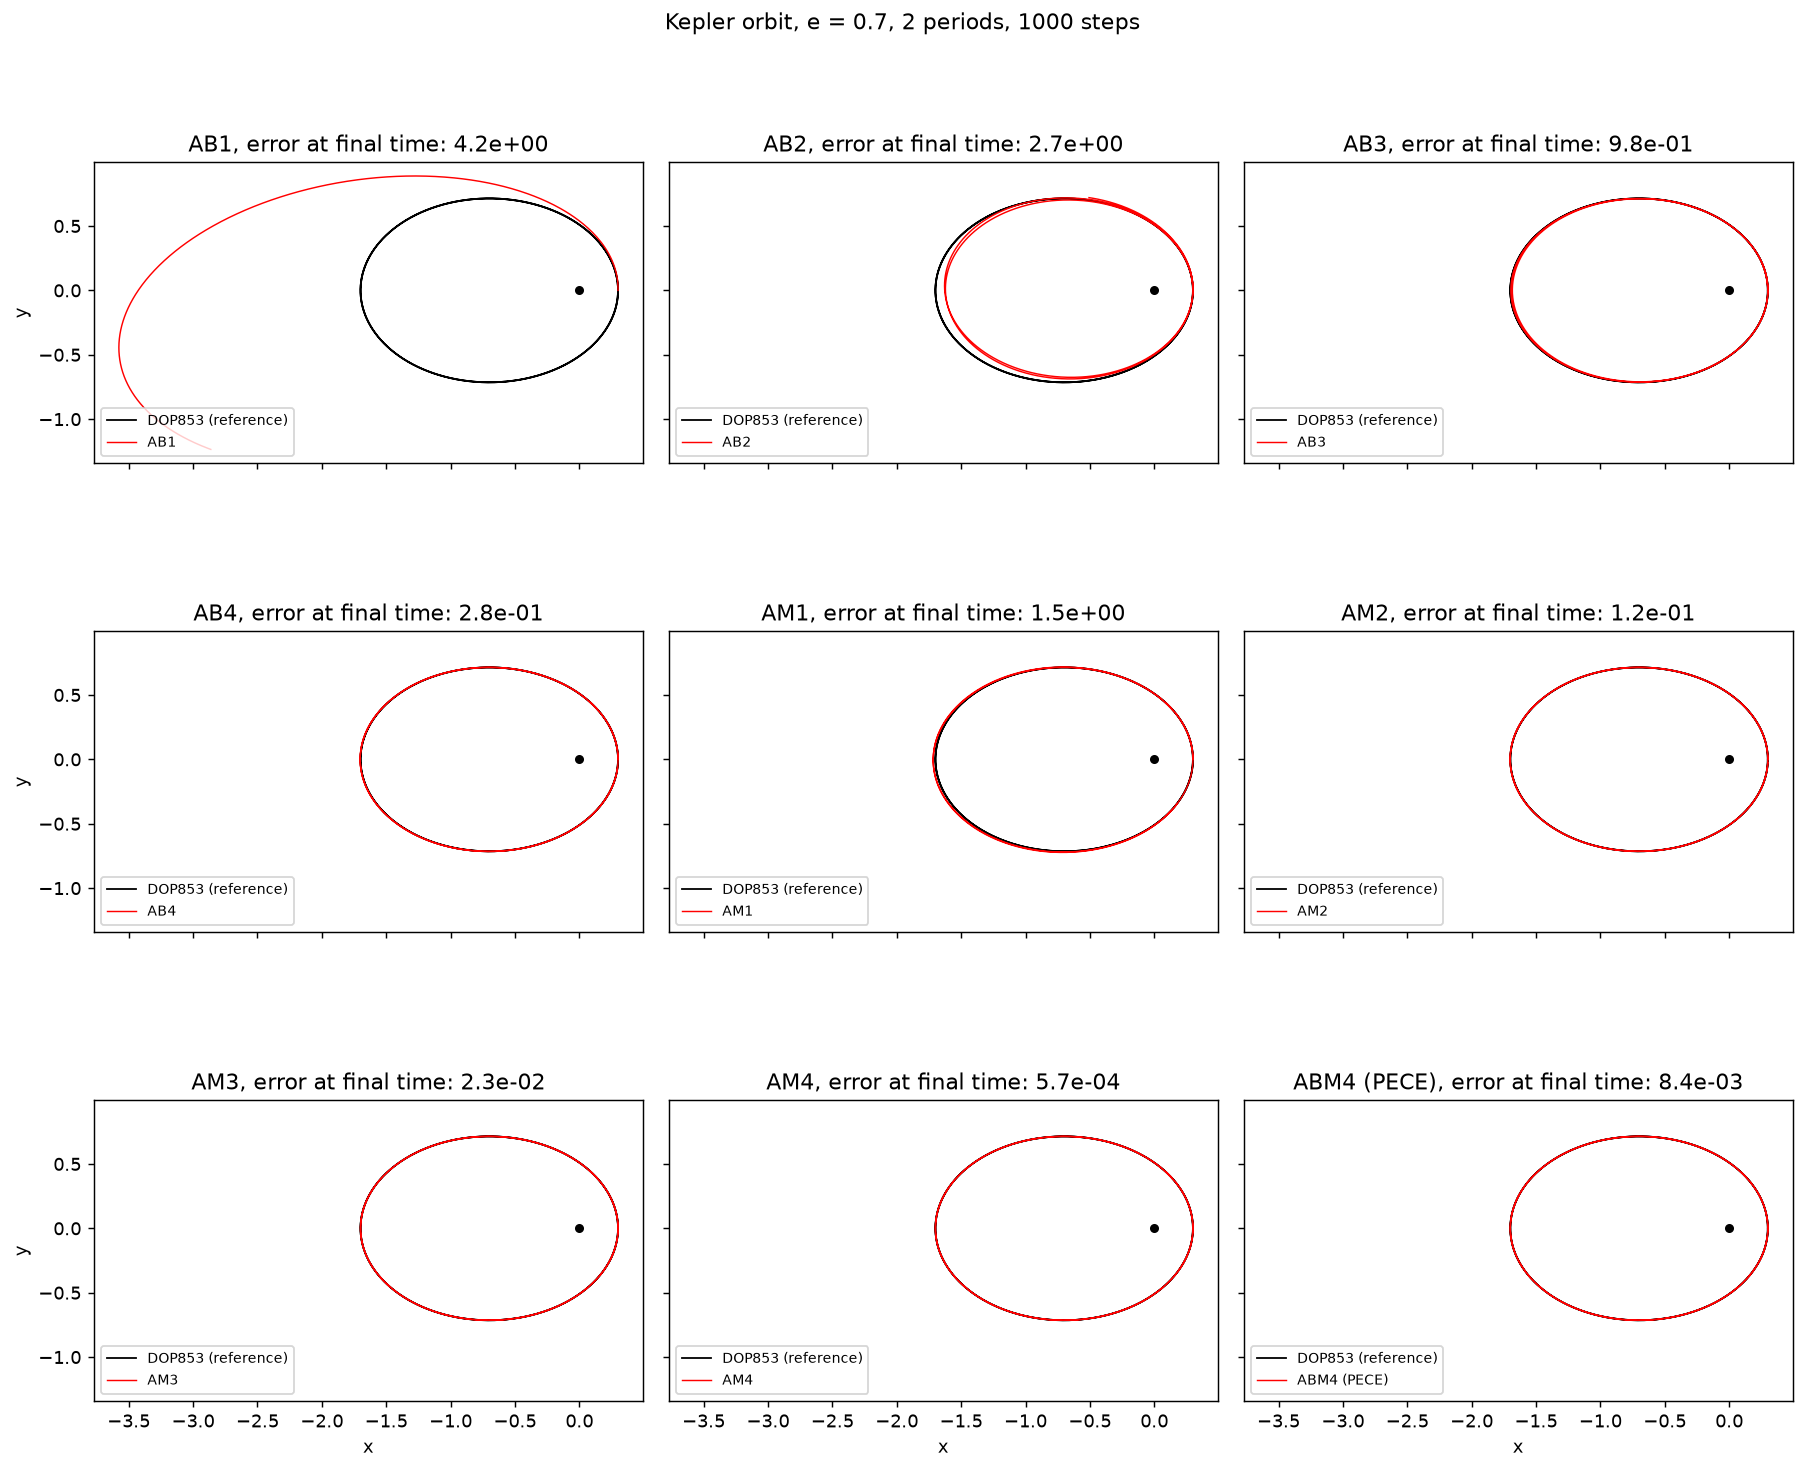
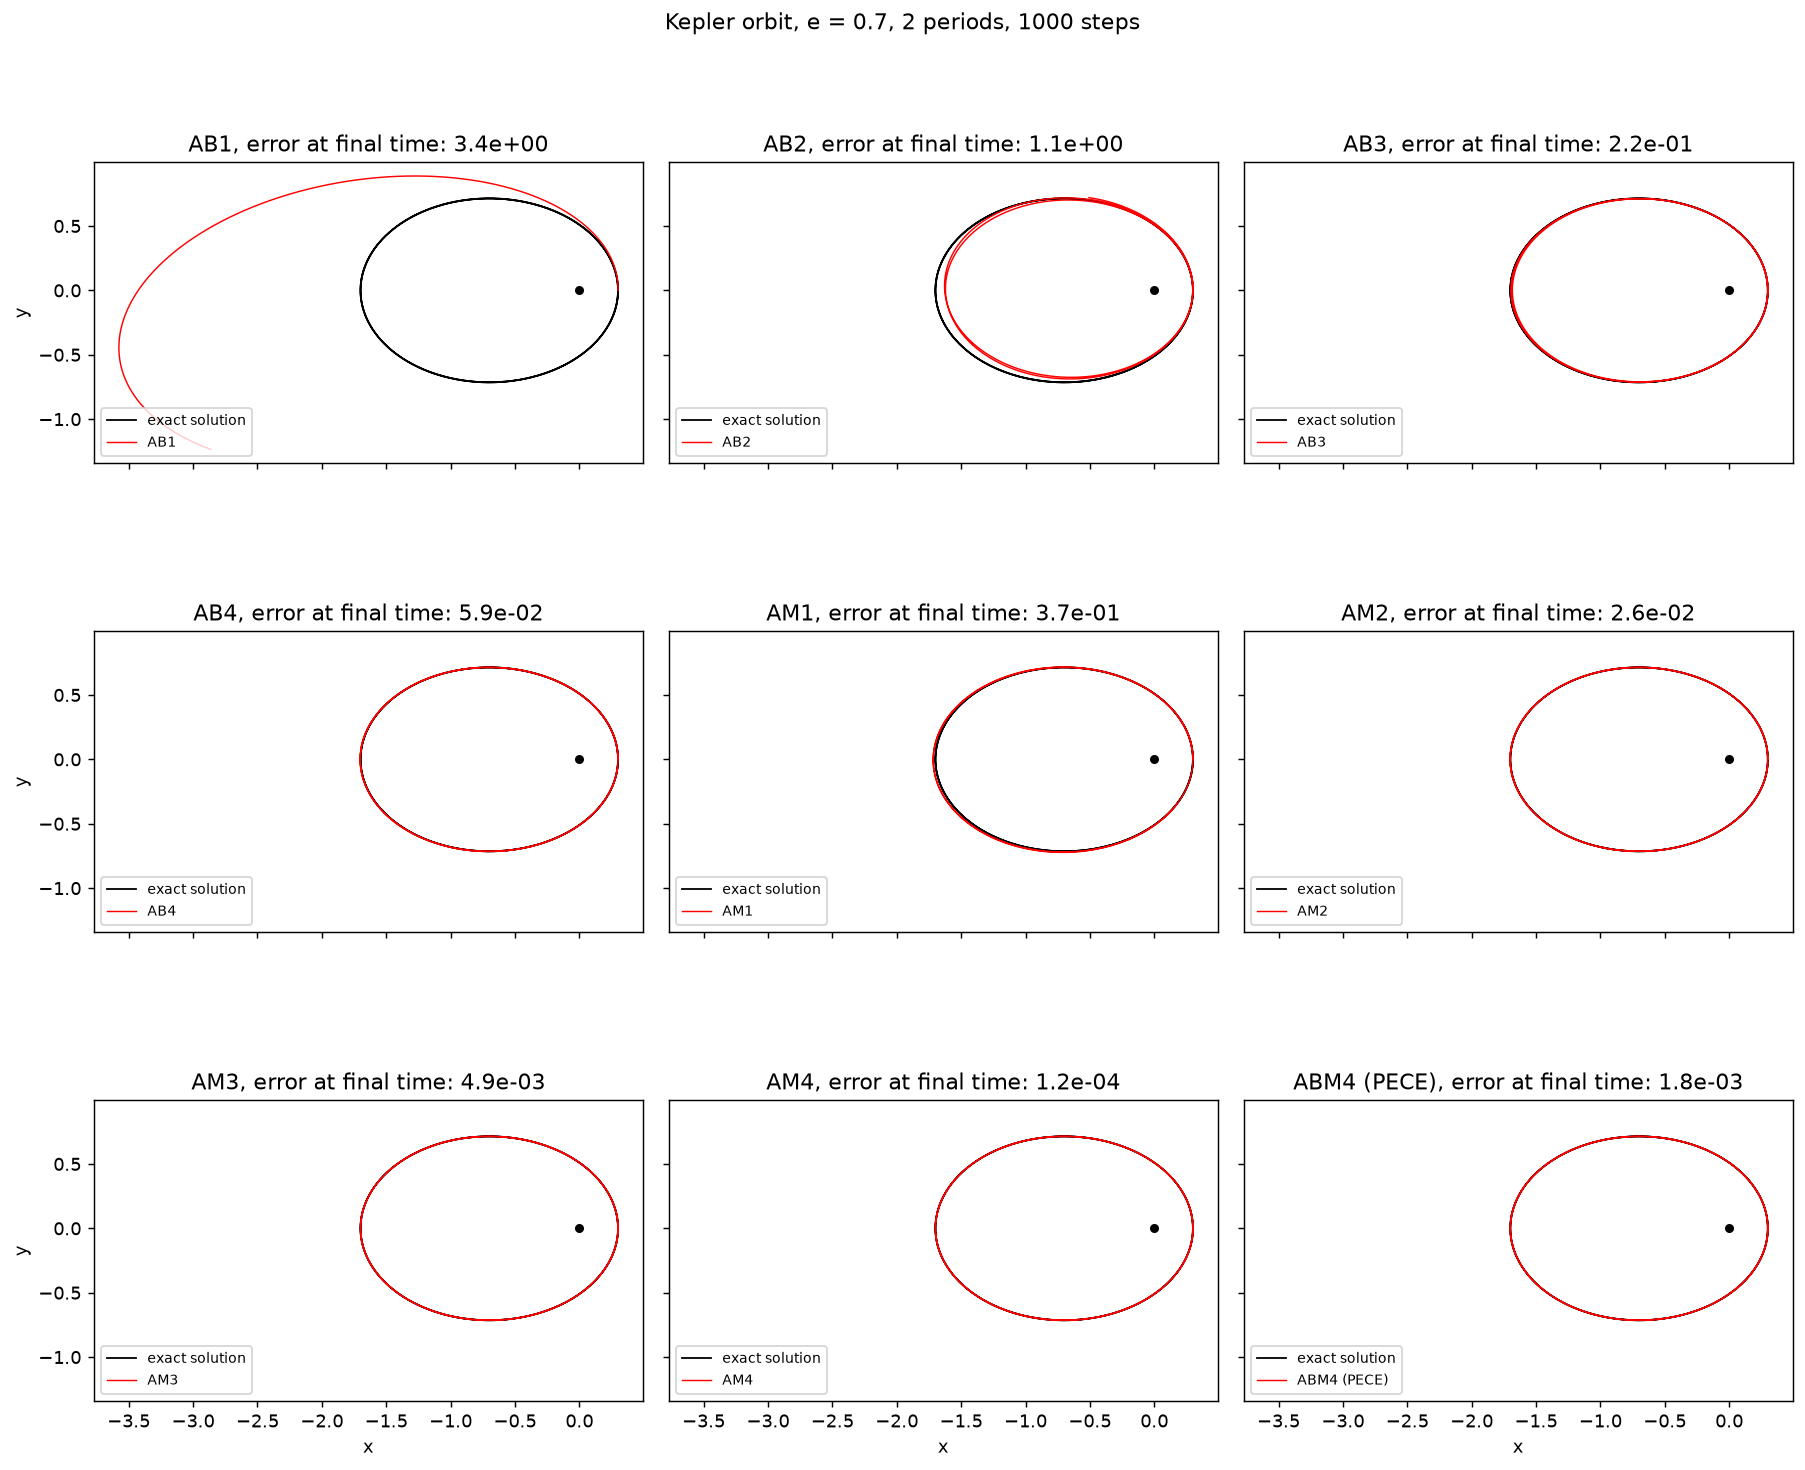
Multistep: exact Kepler solution as reference for convergence and orbits, cross-validated against MATLAB

diff --git a/multistep_orbits.py b/multistep_orbits.py
@@ -1,8 +1,8 @@
 import os
 import numpy as np
 import matplotlib.pyplot as plt
-from scipy.integrate import solve_ivp
 from multistep import adams_bashforth, adams_moulton, abm4_pece
+from convergence import kepler_position
 
 e = 0.7
 periods, n = 2, 1000  # coarse step on purpose, to make the errors visible
@@ -15,10 +15,9 @@ def f(t, y):
     return np.array([y[2], y[3], -y[0] / r3, -y[1] / r3])
 
 
-ref = solve_ivp(f, (0, T), y0, method="DOP853", rtol=1e-13, atol=1e-13,
-                dense_output=True)
 t_ref = np.linspace(0, T, 2000)
-y_ref = ref.sol(t_ref)
+q_ref = np.array([kepler_position(e, t) for t in t_ref]).T   # exact positions, shape (2, 2000)
+q_end = kepler_position(e, T)
 
 runs = {f"AB{k}": adams_bashforth(f, 0, T, y0, n, k)[1] for k in range(1, 5)}
 runs.update({f"AM{k}": adams_moulton(f, 0, T, y0, n, k)[1] for k in range(1, 5)})
@@ -27,8 +26,8 @@ runs["ABM4 (PECE)"] = abm4_pece(f, 0, T, y0, n)[1]
 os.makedirs("figures", exist_ok=True)
 fig, axes = plt.subplots(3, 3, figsize=(14, 12), sharex=True, sharey=True)
 for ax, (name, y) in zip(axes.flat, runs.items()):
-    err = np.linalg.norm(y[-1] - ref.y[:, -1])
-    ax.plot(y_ref[0], y_ref[1], "k-", lw=1, label="DOP853 (reference)")
+    err = np.linalg.norm(y[-1][:2] - q_end)
+    ax.plot(q_ref[0], q_ref[1], "k-", lw=1, label="exact solution")
     ax.plot(y[:, 0], y[:, 1], "r-", lw=0.8, label=name)
     ax.plot(0, 0, "ko", ms=4)
     ax.set_title(f"{name}, error at final time: {err:.1e}")

diff --git a/README.md b/README.md
@@ -6,6 +6,8 @@ Kepler integrators, Adams-type multistep methods and global trajectory optimisat
 
 A comparison of numerical integrators applied to the Kepler problem, rewritten in Python from the MATLAB programs developed for my M.Sc. thesis in Mathematics on symplectic integrators, and extended with the Adams-type multistep methods of a numerical analysis course.
 
+The MATLAB versions are in [numerical-methods-matlab](https://github.com/luigivarriale9/numerical-methods-matlab).
+
 Implemented methods:
 
 - Explicit Euler (order 1)
@@ -18,12 +20,12 @@ Implemented methods:
 
 ## Problem
 
-Kepler problem in normalised units (mu = 1, semi-major axis a = 1) with eccentricity e = 0.7, starting from pericentre. The state is y = (x, y, vx, vy). The conserved quantities are the energy E = -0.5 and the angular momentum L = sqrt(1 - e^2). The reference solution is computed with `scipy.integrate.solve_ivp` (DOP853, tolerances 1e-13).
+Kepler problem in normalised units (mu = 1, semi-major axis a = 1) with eccentricity e = 0.7, starting from pericentre. The state is y = (x, y, vx, vy). The conserved quantities are the energy E = -0.5 and the angular momentum L = sqrt(1 - e^2). The reference is the exact solution of Kepler's equation, solved with Newton's method (`kepler_position` in `convergence.py`). DOP853 (tolerances 1e-13) provides the starting values of the multistep methods.
 
 ## Structure
 
 - `kepler.py`: force, initial state, energy, angular momentum, the four integrators, `integrate` and the reference solution.
-- `convergence.py`: convergence study. Computes the global error at t = 3 for several step sizes, estimates the observed order with a log-log fit and saves `figures/convergence.png`.
+- `convergence.py`: convergence study. Computes the global position error at t = 3 against the exact solution for several step sizes, estimates the observed order with a log-log fit and saves `figures/convergence.png`.
 - `orbits.py`: orbit comparison for e = 0.7; saves `figures/orbits.png`.
 - `multistep.py`: Adams–Bashforth, Adams–Moulton and ABM4 (PECE) multistep methods.
 - `multistep_convergence.py`: observed orders of the multistep methods on the Kepler problem.
@@ -76,19 +78,20 @@ to the four significant digits compared (20 values: 4 methods × 5 step counts).
 `multistep.py` adds Adams-type linear multistep methods: Adams–Bashforth (1 to 4 steps, order 1 to 4), Adams–Moulton (1 to 4 steps, order 2 to 5, implicit equation solved by fixed-point iteration) and the predictor–corrector scheme ABM4 in PECE form (AB4 predictor, AM4 corrector). Starting values are computed with DOP853.
 
 The observed orders on the test problem y' = -y, y(0) = 1 match the theoretical ones (checked by `tests/test_multistep.py`). On the Kepler problem (e = 0.7, position error at t = 3 against the exact solution of Kepler's equation, n = 250 … 4000 steps, `multistep_convergence.py`) the observed orders are:
+
 | Method | AB1 | AB2 | AB3 | AB4 | AM1 | AM2 | AM3 | AM4 | ABM4 (PECE) |
 |---|---|---|---|---|---|---|---|---|---|
 | Observed order | 0.93 | 1.99 | 2.88 | 3.95 | 2.00 | 2.91 | 3.97 | 5.31 | 5.00 |
 
-AB1 coincides with explicit Euler. AM4 reads slightly above 5 because its finest errors (about 4e-12) are close to the accuracy of the starting values. With 1,000 steps, ABM4 (PECE) reaches an error of about 5e-8, against about 1.3e-5 for AB4. The errors agree with the MATLAB implementation ([numerical-methods-matlab](https://github.com/luigivarriale9/numerical-methods-matlab)): 41 of the 45 values (9 methods × 5 step counts) match to four significant digits; the other four are at the finest steps, and AM4 at n = 4000 differs by about 3%. 
+AB1 coincides with explicit Euler. AM4 reads slightly above 5 because its finest errors (about 4e-12) are close to the accuracy of the starting values. With 1,000 steps, ABM4 (PECE) reaches an error of about 5e-8, against about 1.3e-5 for AB4. The errors agree with the MATLAB implementation ([numerical-methods-matlab](https://github.com/luigivarriale9/numerical-methods-matlab)): 41 of the 45 values (9 methods × 5 step counts) match to four significant digits; the other four are at the finest steps, and AM4 at n = 4000 differs by about 3%.
 
 ![Multistep convergence](figures/multistep_convergence.png)
 
-Orbits computed with a deliberately coarse step (2 periods, 1,000 steps, `multistep_orbits.py`) show the differences in accuracy. The error at the final time ranges from 4.2 for AB1 and 2.7 for AB2, whose orbits lose their shape, to 2.3e-2 for AM3, 8.4e-3 for ABM4 (PECE) and 5.7e-4 for AM4, which follow the reference orbit closely. At equal order, the implicit Adams–Moulton methods are more accurate than the explicit Adams–Bashforth ones.
+Orbits computed with a deliberately coarse step (2 periods, 1,000 steps, `multistep_orbits.py`) show the differences in accuracy. The position error at the final time, against the exact solution, ranges from 3.4 for AB1 and 1.1 for AB2, whose orbits lose their shape, to 4.9e-3 for AM3, 1.8e-3 for ABM4 (PECE) and 1.2e-4 for AM4, which follow the exact orbit closely. At equal order, the implicit Adams–Moulton methods are more accurate than the explicit Adams–Bashforth ones.
 
 ![Multistep orbits](figures/multistep_orbits.png)
 
-These methods were first implemented in MATLAB for a joint assignment of the Scientific Computing course (2023/24) and are rewritten here from the formulas.
+These methods were first implemented in MATLAB for the Scientific Computing course (2023/24) and are rewritten here from the formulas.
 
 ### Global trajectory optimisation (differential evolution)
 
@@ -133,7 +136,7 @@ the minimum from any seed. The local method here is SciPy's, not the one from
 ### Local optimisation (Newton and gradient methods)
 
 `local_optimisation.py` is a Python version of the methods from the
-Scientific Computing labs 7-9 (a joint assignment, originally written in MATLAB):
+Scientific Computing labs 7-9 (originally written in MATLAB):
 Newton, Newton with Armijo backtracking, steepest descent with Armijo
 backtracking, steepest descent with exact line search, conjugate gradient
 (the last two for symmetric positive definite linear systems) and conjugate
@@ -168,10 +171,10 @@ Symplectic and symmetric methods do not show the systematic energy drift of expl
 
 ## Tests
 
-The repository has 29 automated tests (`pytest`): orders of convergence of the integrators, multistep methods, the Lambert problem and global optimisation, the parallel speedup experiment, the local optimisation methods and the local versus global comparison. They run on every push with GitHub Actions.
+The repository has automated tests (`pytest`): orders of convergence of the integrators, multistep methods, the Lambert problem and global optimisation, the parallel speedup experiment, the local optimisation methods and the local versus global comparison. They run on every push with GitHub Actions.
 
 ## Possible extensions
 
-- Systematic comparison with the results of the original MATLAB programs.
+- Comparison with the MATLAB implementations beyond the convergence studies (long-time energy and angular momentum).
 - Study of other eccentricities and longer integration times.
 - Planar circular restricted three-body problem.
